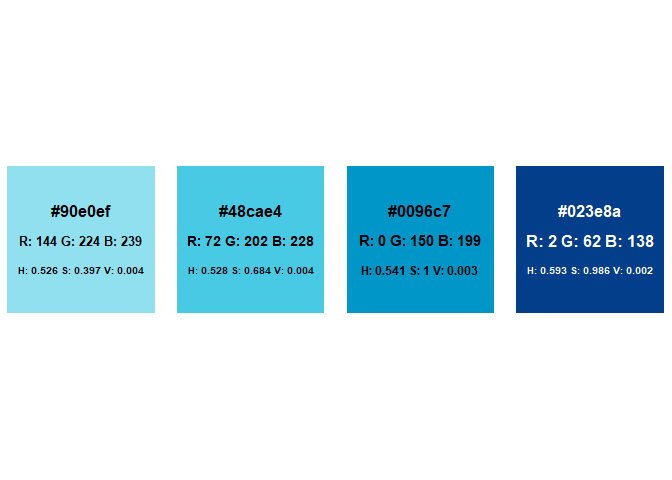
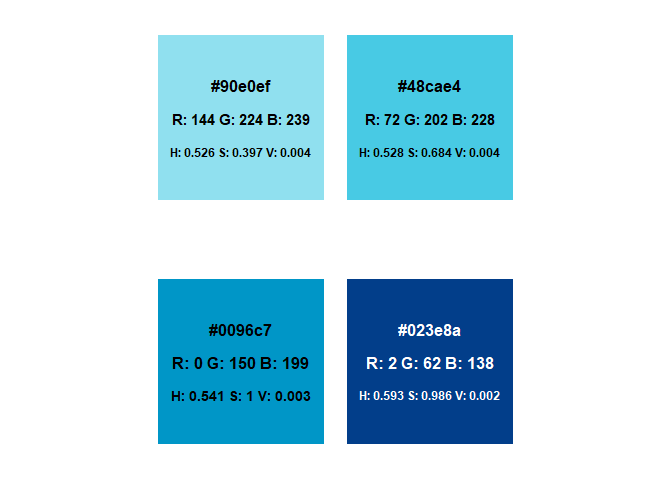
update readme2

diff --git a/README.md b/README.md
@@ -22,7 +22,7 @@ remotes::install_github("mic-wypych/swatches")
 
 ## Examples
 
-You can plot a colorwheel of a palette like this:
+You can plot a color wheel of a palette like this:
 
 ``` r
 library(swatches)
@@ -31,13 +31,18 @@ pal <- c("#90e0ef", "#48cae4", "#0096c7", "#023e8a")
 plot_wheel(pal)
 ```
 
-<img src="man/figures/README-example-1.png" width="100%" />
+<img src="man/figures/README-example-1.png" width="100%" /> The
+resulting plot is a ggplot object so ou can add any of the typical
+ggplot customizations if you want like changing theme, adding titles
+etc.
+
+You can plot swatches for a color palette like this:
 
 ``` r
 library(swatches)
 
 pal <- c("#90e0ef", "#48cae4", "#0096c7", "#023e8a")
-plot_swatch(pal)
+plot_swatch(pal, nrow = 2)
 ```
 
 <img src="man/figures/README-example2-1.png" width="100%" />
